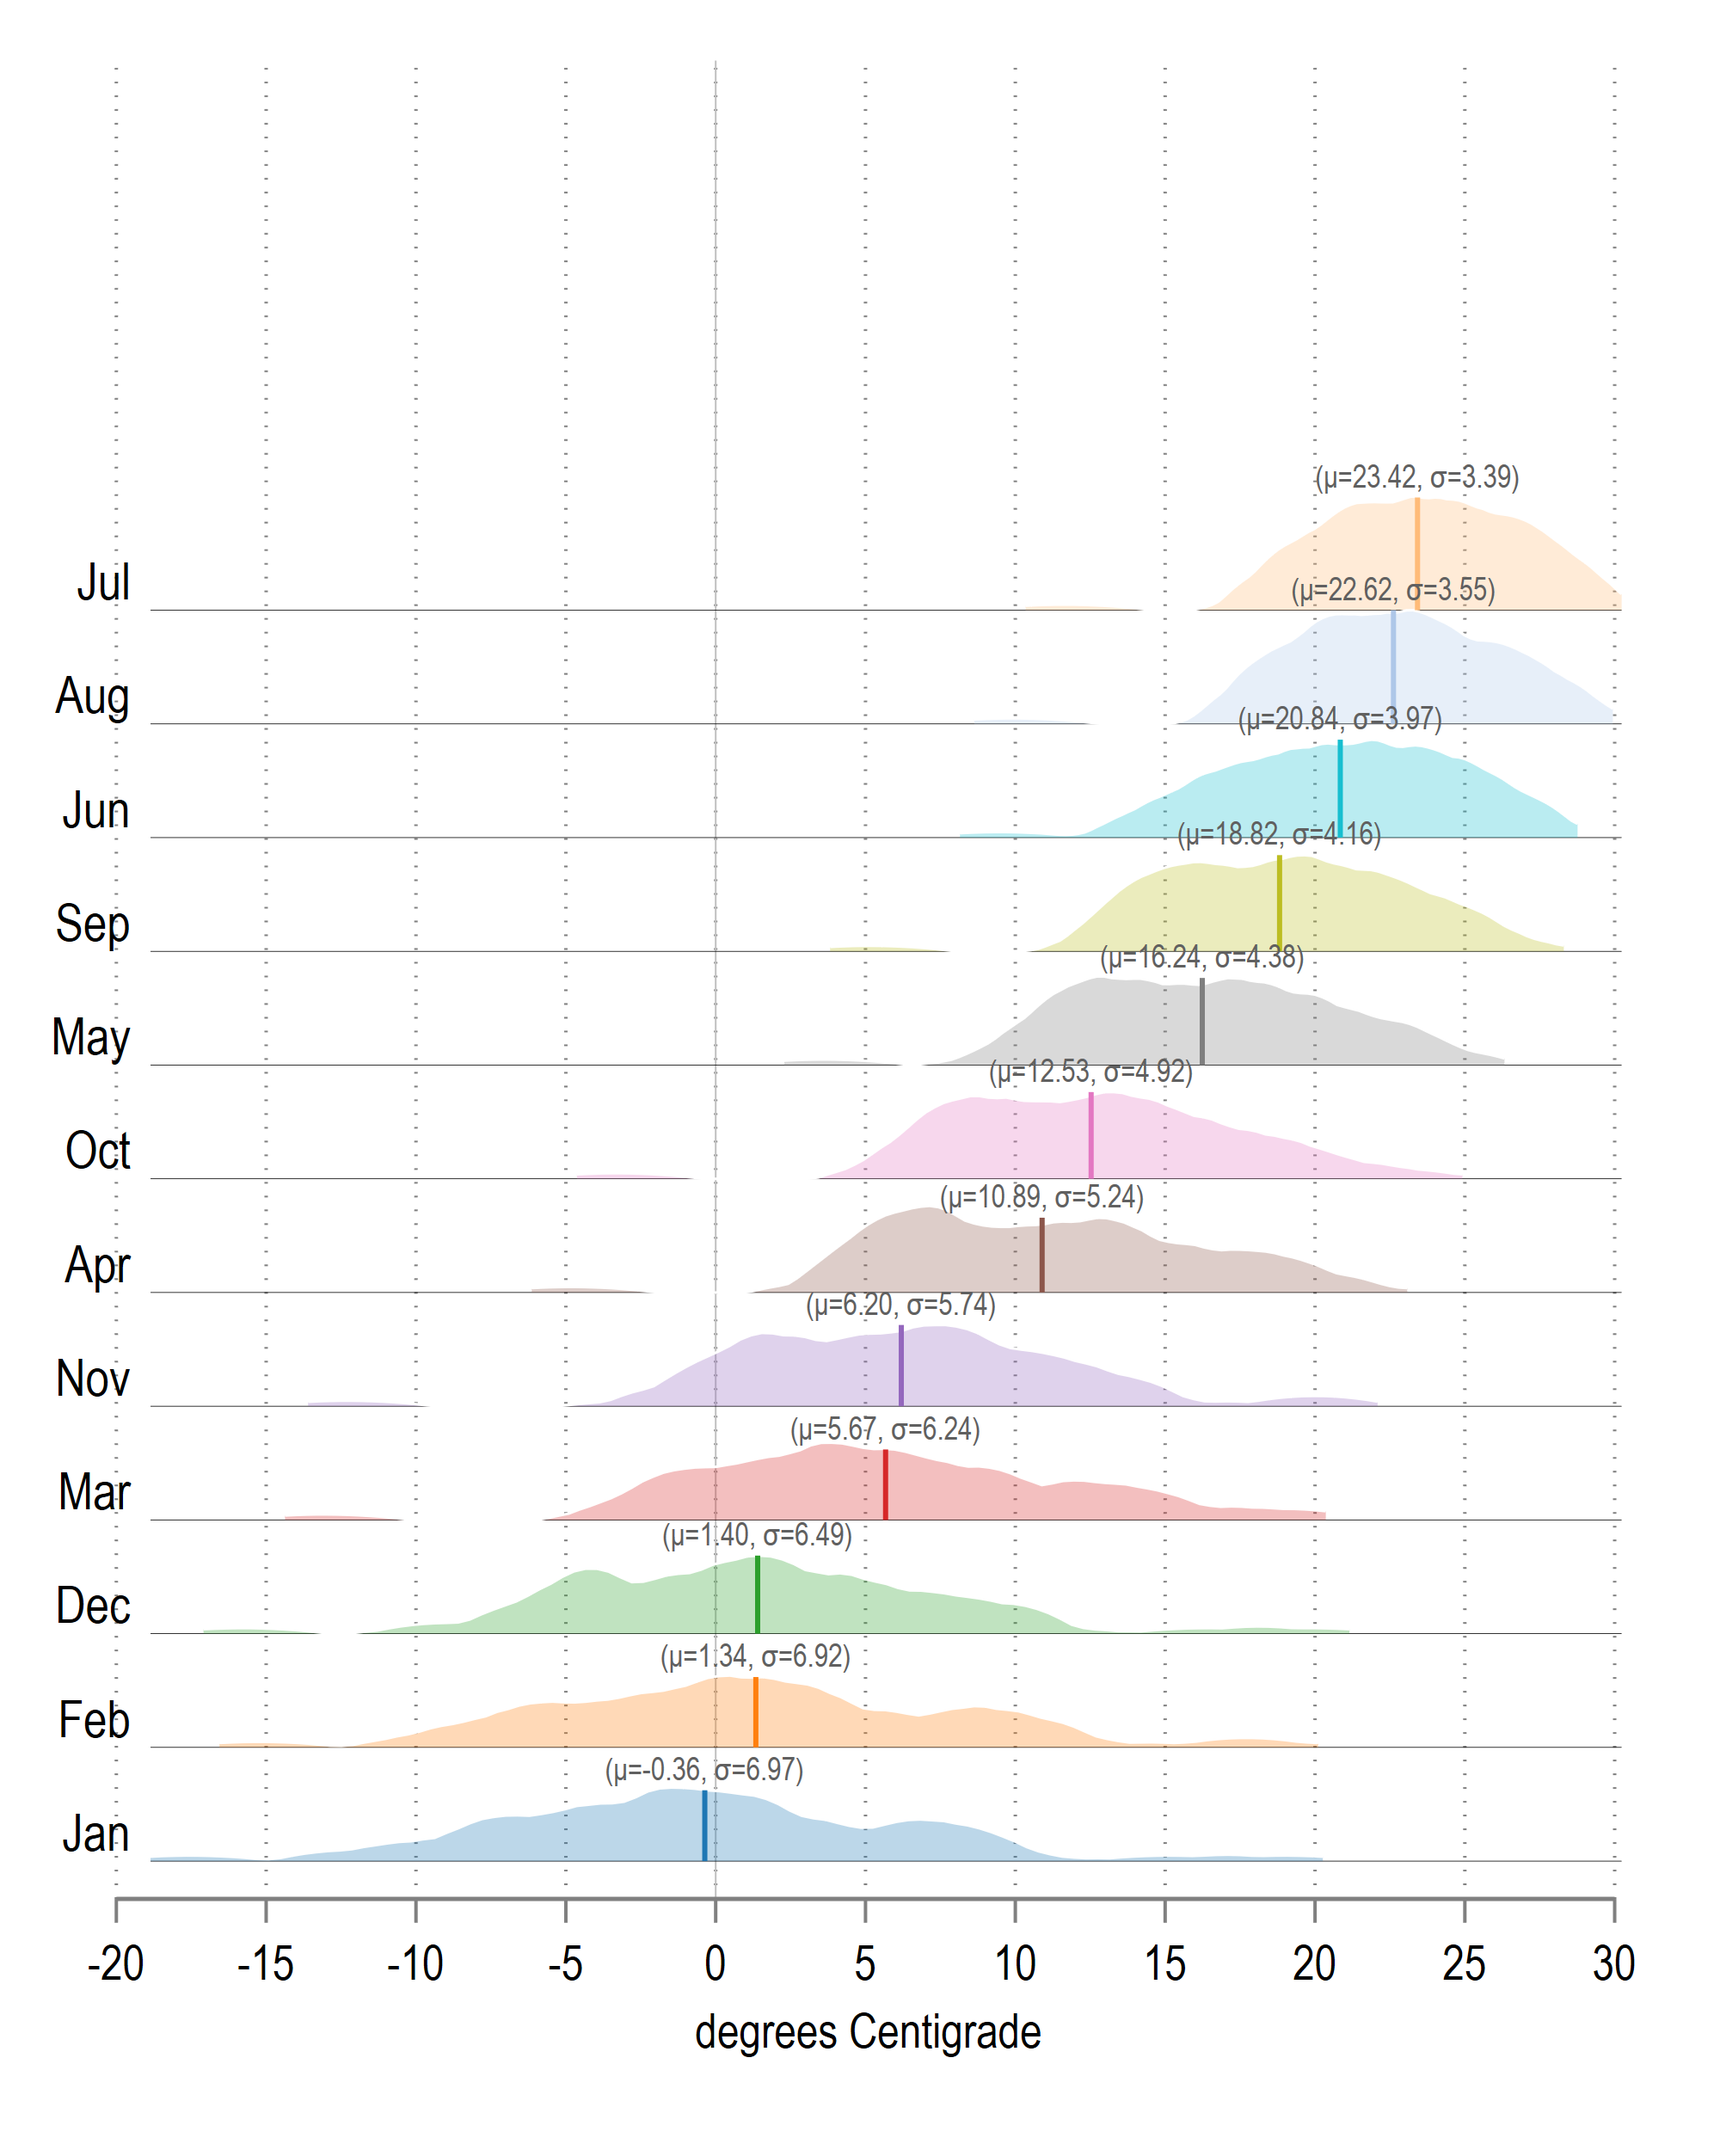
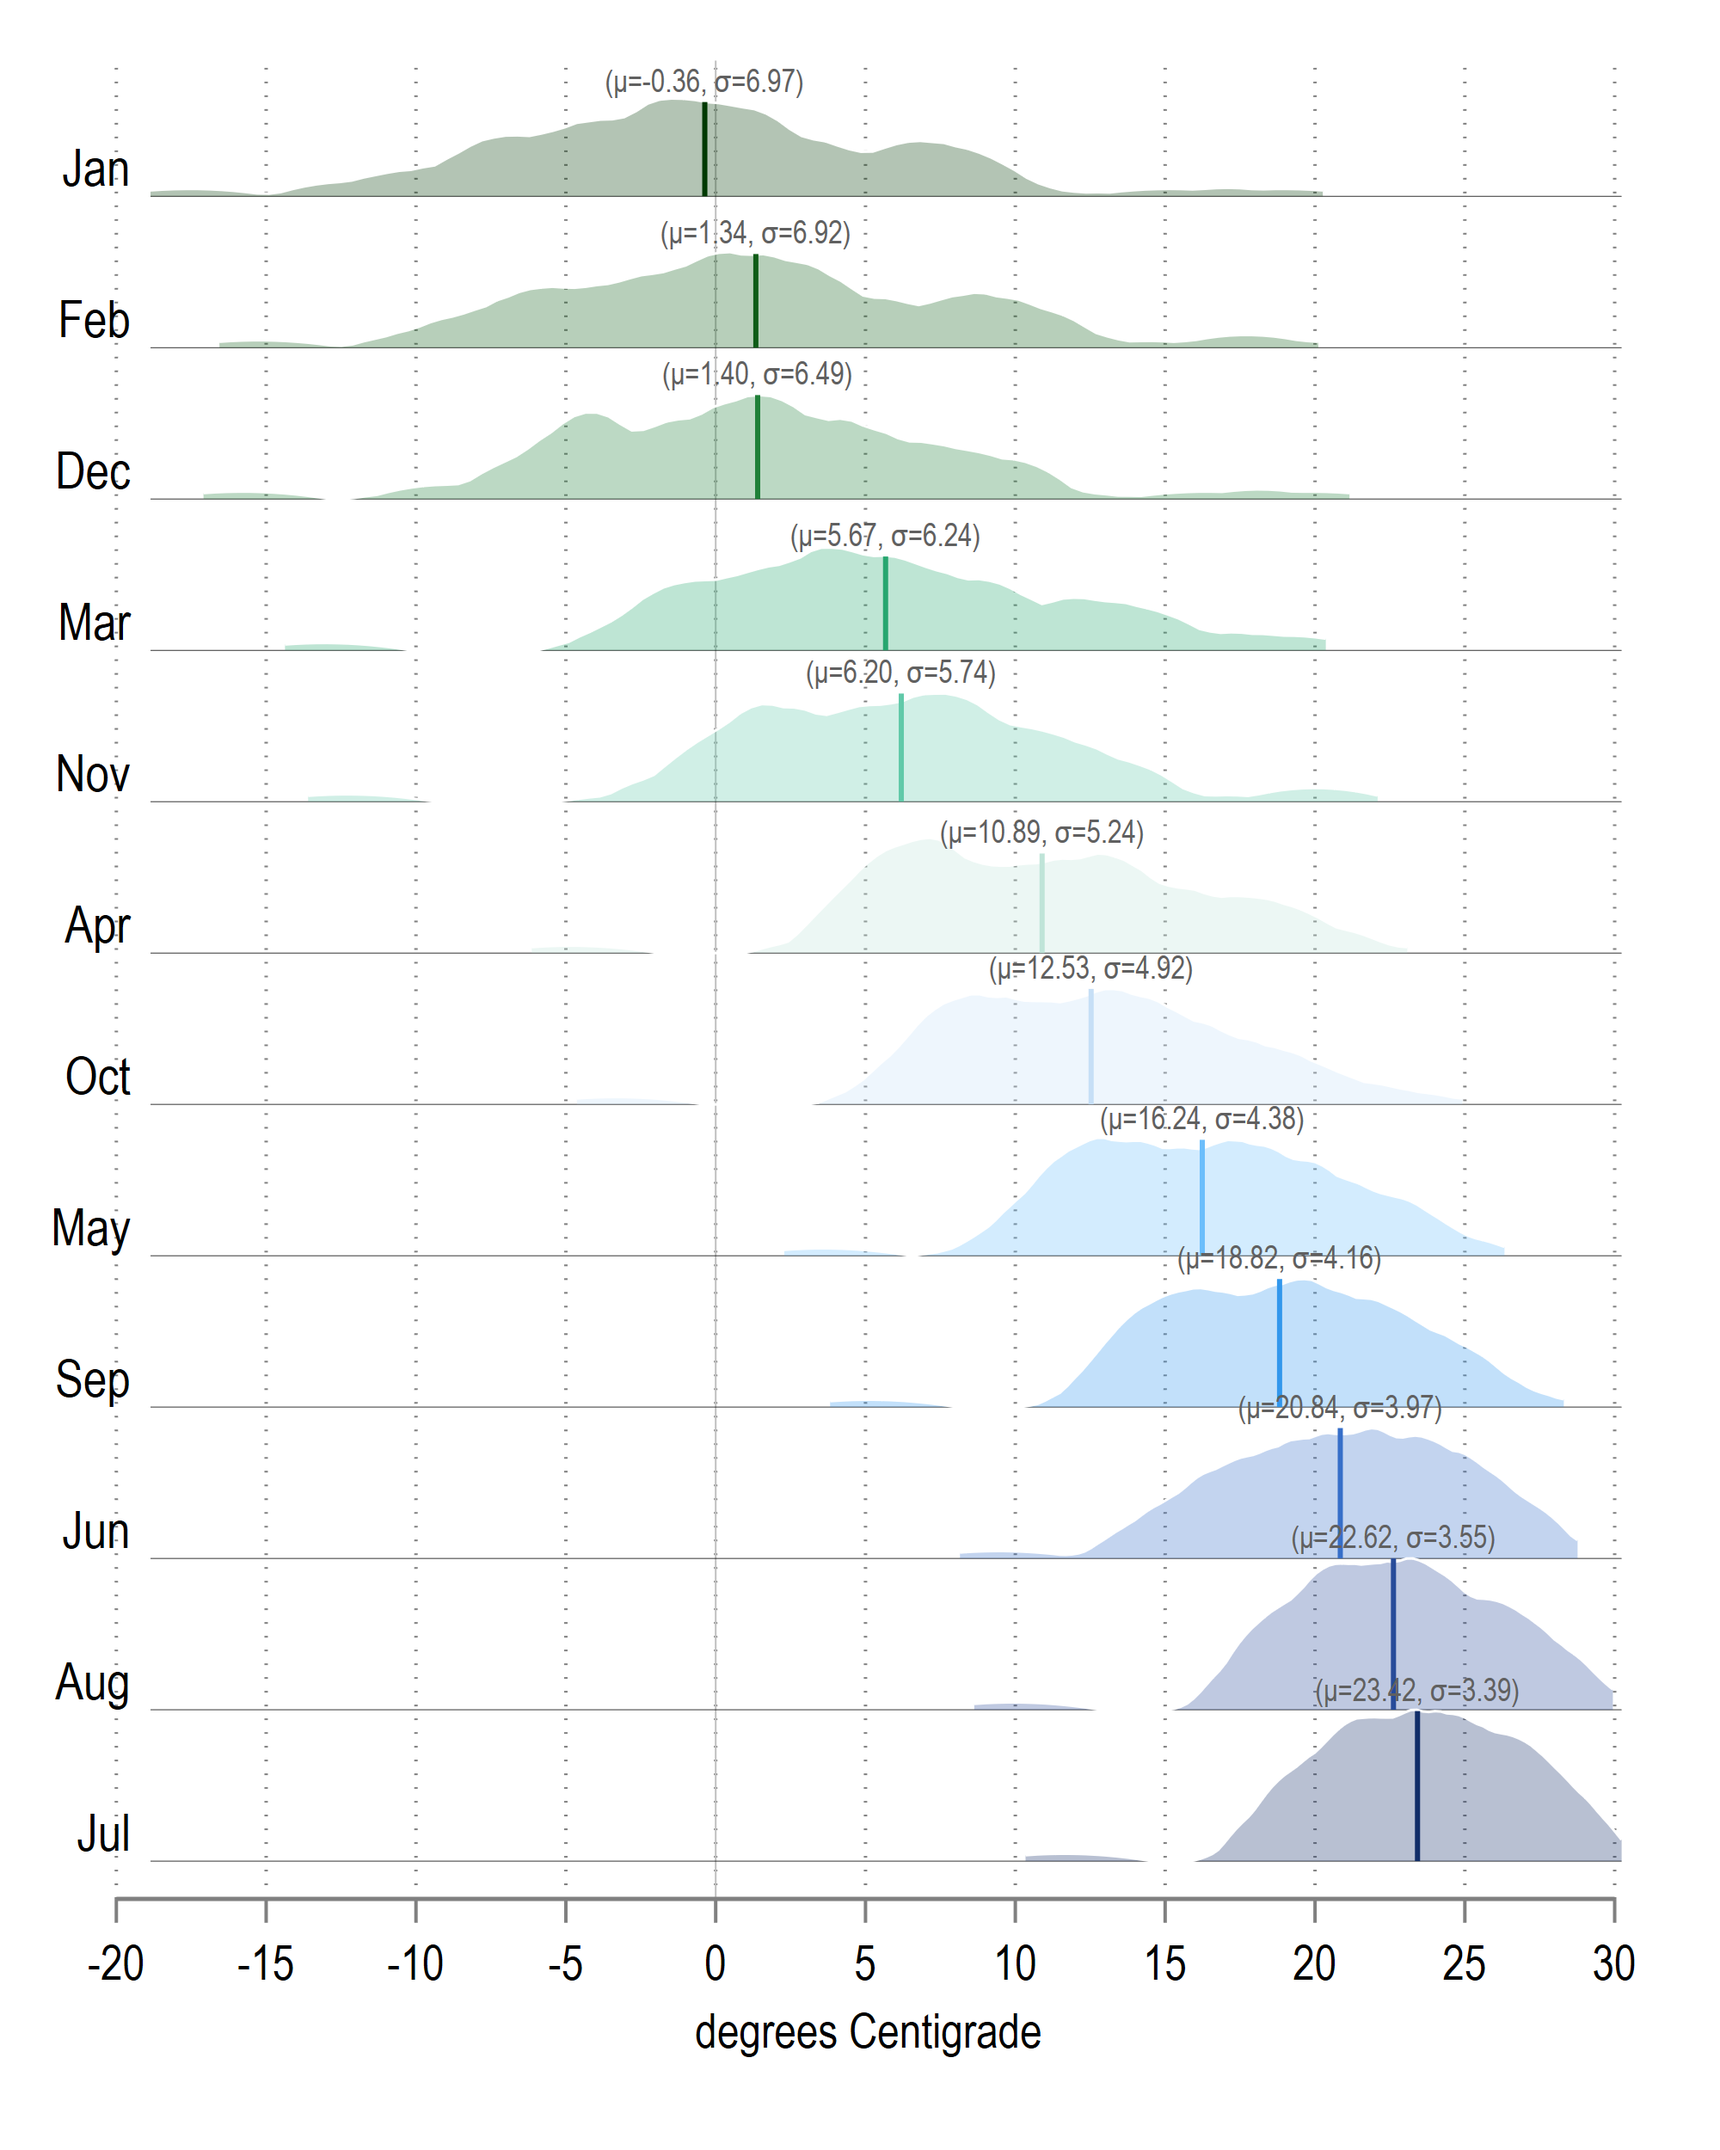
v1.9 fixes

diff --git a/README.md b/README.md
@@ -448,7 +448,7 @@ ridgeline meantemp, by(month) bwid(1.5) labs(3) overlap(1) lc(black) yline yrev 
 
 
 ```stata
-ridgeline meantemp, by(month) bwid(1.3) labs(3) overlap(1) yrev  yline alpha(30) ///
+ridgeline meantemp, by(month) bwid(1.3) labs(3) overlap(1) yline alpha(30) palette(CET D13) ///
 	xlabel(-20(5)30) xtitle("degrees Centigrade") ///
 		xsize(4) ysize(5) ///
 		xline(0, lp(solid) lw(0.1) lc(gs12)) ///
@@ -457,7 +457,7 @@ ridgeline meantemp, by(month) bwid(1.3) labs(3) overlap(1) yrev  yline alpha(30)
 ```
 
 
-<img src="/figures/joyplot7_7.png" width="100%">
+<img src="/figures/joyplot8_7.png" width="100%">
 
 
 
